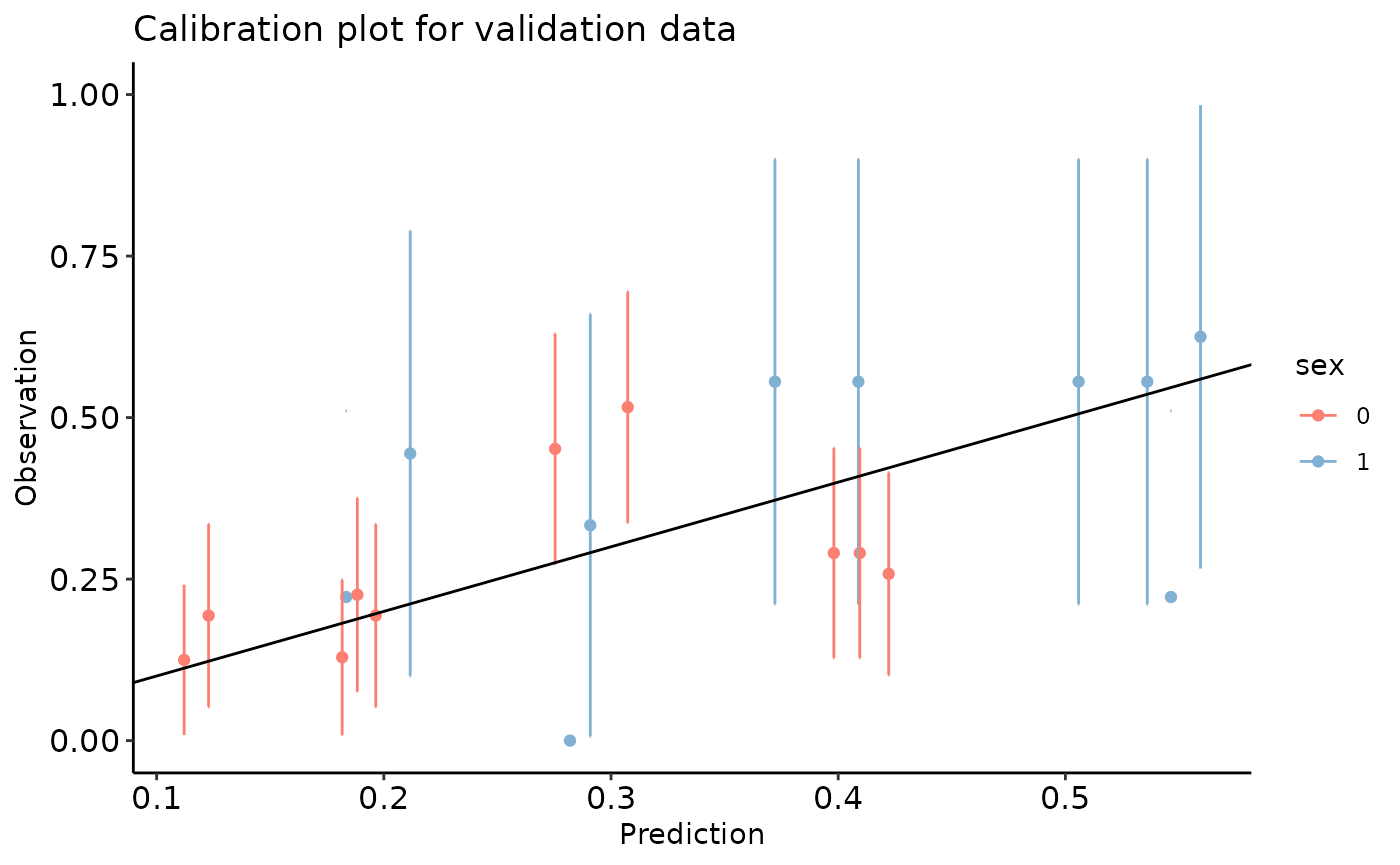
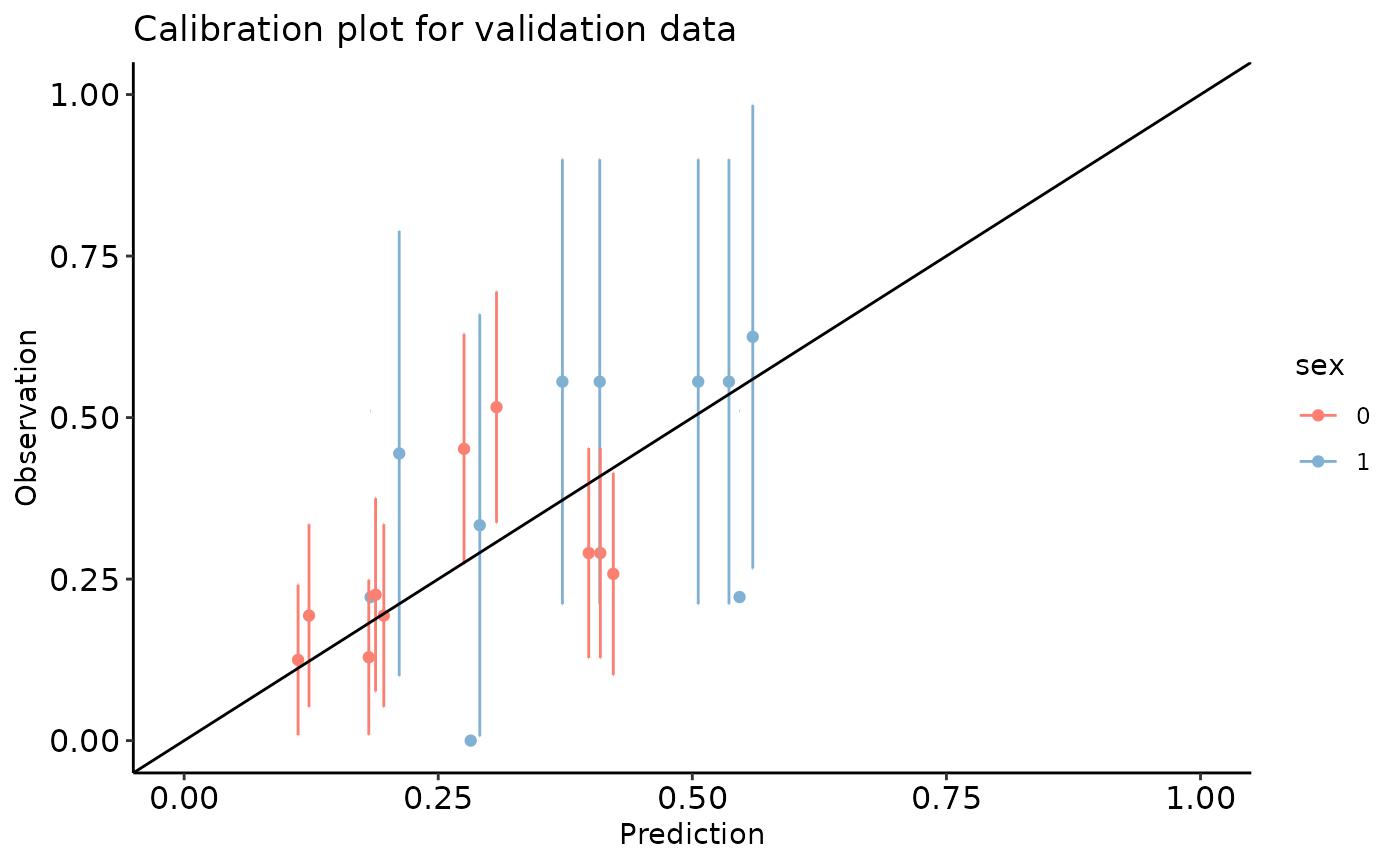
Built site for predtools: 0.0.3@539e238

diff --git a/articles/calibPlot.html b/articles/calibPlot.html
@@ -224,11 +224,11 @@
 <span><span class="va">dev_data</span><span class="op">$</span><span class="va">pred</span> <span class="op">&lt;-</span> <span class="fu"><a href="https://rdrr.io/r/stats/predict.glm.html" class="external-link">predict.glm</a></span><span class="op">(</span><span class="va">reg</span>, type <span class="op">=</span> <span class="st">'response'</span><span class="op">)</span></span>
 <span><span class="va">val_data</span><span class="op">$</span><span class="va">pred</span> <span class="op">&lt;-</span> <span class="fu"><a href="https://rdrr.io/r/stats/predict.glm.html" class="external-link">predict.glm</a></span><span class="op">(</span><span class="va">reg</span>, newdata <span class="op">=</span> <span class="va">val_data</span>, type <span class="op">=</span> <span class="st">'response'</span><span class="op">)</span></span>
 <span></span>
-<span><span class="fu"><a href="../reference/calibration_plot.html">calibration_plot</a></span><span class="op">(</span>data <span class="op">=</span> <span class="va">dev_data</span>, obs <span class="op">=</span> <span class="st">"y"</span>, pred <span class="op">=</span> <span class="st">"pred"</span>, title <span class="op">=</span> <span class="st">"Calibration plot for development data"</span><span class="op">)</span></span>
+<span><span class="fu"><a href="../reference/calibration_plot.html">calibration_plot</a></span><span class="op">(</span>data <span class="op">=</span> <span class="va">dev_data</span>, obs <span class="op">=</span> <span class="st">"y"</span>, pred <span class="op">=</span> <span class="st">"pred"</span>, title <span class="op">=</span> <span class="st">"Calibration plot for development data"</span>, y_lim <span class="op">=</span> <span class="fu"><a href="https://rdrr.io/r/base/c.html" class="external-link">c</a></span><span class="op">(</span><span class="fl">0</span>, <span class="fl">0.7</span><span class="op">)</span>, x_lim<span class="op">=</span><span class="fu"><a href="https://rdrr.io/r/base/c.html" class="external-link">c</a></span><span class="op">(</span><span class="fl">0</span>, <span class="fl">0.7</span><span class="op">)</span><span class="op">)</span></span>
 <span><span class="co">#&gt; $calibration_plot</span></span></code></pre></div>
 <p><img src="calibPlot_files/figure-html/unnamed-chunk-6-1.png" width="700"></p>
 <div class="sourceCode" id="cb5"><pre class="downlit sourceCode r">
-<code class="sourceCode R"><span><span class="fu"><a href="../reference/calibration_plot.html">calibration_plot</a></span><span class="op">(</span>data <span class="op">=</span> <span class="va">val_data</span>, obs <span class="op">=</span> <span class="st">"y"</span>, pred <span class="op">=</span> <span class="st">"pred"</span>, y_lim <span class="op">=</span> <span class="fu"><a href="https://rdrr.io/r/base/c.html" class="external-link">c</a></span><span class="op">(</span><span class="fl">0</span>, <span class="fl">1</span><span class="op">)</span>,</span>
+<code class="sourceCode R"><span><span class="fu"><a href="../reference/calibration_plot.html">calibration_plot</a></span><span class="op">(</span>data <span class="op">=</span> <span class="va">val_data</span>, obs <span class="op">=</span> <span class="st">"y"</span>, pred <span class="op">=</span> <span class="st">"pred"</span>, y_lim <span class="op">=</span> <span class="fu"><a href="https://rdrr.io/r/base/c.html" class="external-link">c</a></span><span class="op">(</span><span class="fl">0</span>, <span class="fl">1</span><span class="op">)</span>, x_lim<span class="op">=</span><span class="fu"><a href="https://rdrr.io/r/base/c.html" class="external-link">c</a></span><span class="op">(</span><span class="fl">0</span>, <span class="fl">1</span><span class="op">)</span>,</span>
 <span>                 title <span class="op">=</span> <span class="st">"Calibration plot for validation data"</span>, group <span class="op">=</span> <span class="st">"sex"</span><span class="op">)</span></span>
 <span><span class="co">#&gt; $calibration_plot</span></span></code></pre></div>
 <p><img src="calibPlot_files/figure-html/unnamed-chunk-6-2.png" width="700"></p>

diff --git a/articles/mROC.html b/articles/mROC.html
@@ -277,9 +277,9 @@
 <code class="sourceCode R"><span><span class="va">res</span><span class="op">&lt;-</span><span class="fu"><a href="../reference/mROC_inference.html">mROC_inference</a></span><span class="op">(</span><span class="va">val_data</span><span class="op">[</span>,<span class="st">'y'</span><span class="op">]</span>,<span class="va">pred</span><span class="op">)</span></span>
 <span></span>
 <span><span class="va">res</span></span>
-<span><span class="co">#&gt; Mean calibration statistic (A):0.00835868(Obs&gt;Pred) (p:0.7227)</span></span>
-<span><span class="co">#&gt; mROC/ROC equality statsitic (B):0.05910898 (p:0.04742)</span></span>
-<span><span class="co">#&gt; Unified statistic:6.792992 (df:4.020401,p:0.1488688)</span></span></code></pre></div>
+<span><span class="co">#&gt; Mean calibration statistic (A):0.00835868(Obs&gt;Pred) (p:0.72735)</span></span>
+<span><span class="co">#&gt; mROC/ROC equality statsitic (B):0.05910898 (p:0.04676)</span></span>
+<span><span class="co">#&gt; Unified statistic:6.794023 (df:4.011985,p:0.1481371)</span></span></code></pre></div>
 </div>
 </div>
   </div>
